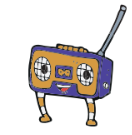
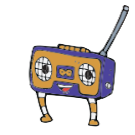
modificades les imatges a png i 1:1 proporcio

diff --git a/index.php b/index.php
@@ -12,6 +12,7 @@
                 <img class="card-img-top" src="./paginas/Prueba_map(4k)/recursos/miniatura.png" alt="Card image" style="width:100%">
             </div>
             <div class="card-body">
+                <!-- TODO: carregar els textos desde variables per fer-ho multilingue -->
                 <h2 class="my-0 font-weight-normal">Mapa de la Radio</h2>
                 <ul class="list-unstyled mt-3 mb-4">
                     <li>Puedes escuchar </li>
@@ -23,12 +24,11 @@
         </div>
         <div class="card mb-4 box-shadow">
             <div class="card-header">
-                <img class="card-img-top" src="./img/minigames.jfif" alt="Card image" style="width:100%">
+                <img class="card-img-top" src="./img/minigames.png" alt="Card image" style="width:100%">
 
             </div>
             <div class="card-body">
                 <h2 class="my-0 font-weight-normal">Minijuegos</h2>
-                <!-- <h1 class="card-title pricing-card-title">$15 <small class="text-muted">/ mo</small></h1> -->
                 <ul class="list-unstyled mt-3 mb-4">
                     <li>Emisión</li>
                     <li>Transmisión</li>
@@ -39,7 +39,7 @@
         </div>
         <div class="card mb-4 box-shadow">
             <div class="card-header">
-                <img class="card-img-top" src="./img/radio.PNG" alt="Card image" style="width:100%">
+                <img class="card-img-top" src="./img/radio.png" alt="Card image" style="width:100%">
             </div>
             <div class="card-body">
                 <h2 class="my-0 font-weight-normal">Información</h2>
